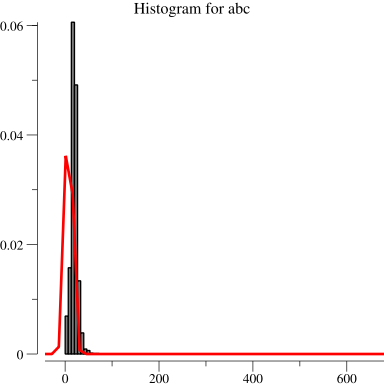
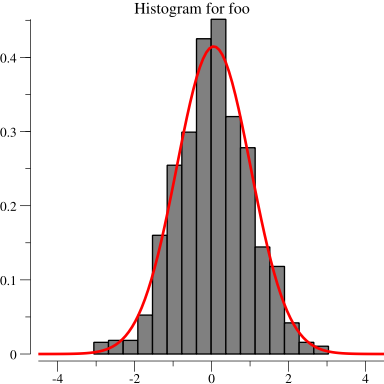
summary: some changes for displaying the normal distribution more accurate

diff --git a/summary/summary.go b/summary/summary.go
@@ -83,30 +83,21 @@ func main() {
 						if err != nil {
 							panic(err)
 						}
-						p.X.Min = s.min - 4*stddev
-						p.X.Max = s.max + 4*stddev
+						p.X.Min = s.min - 1.5*stddev
+						p.X.Max = s.max + 1.5*stddev
 						p.Title.Text = fmt.Sprintf("Histogram for %s", s.name)
-						// p.Y.Scale = plot.LogScale{}
 
-						// Create a histogram of our values drawn
-						// from the standard normal.
-						plotterValues := make([]float64, 0, len(s.obsv))
-						for _, o := range s.obsv {
-							plotterValues = append(plotterValues, o+math.Abs(s.min)+0.1)
-						}
-						h, err := plotter.NewHist(plotter.Values(plotterValues), 100)
+						h, err := plotter.NewHist(plotter.Values(s.obsv), 16)
 						if err != nil {
 							panic(err)
 						}
-						// Normalize the area under the histogram to
-						// sum to one.
 						h.Normalize(1)
 						p.Add(h)
 
 						norm := plotter.NewFunction(func(x float64) float64 {
 							return 1.0 / (stddev * math.Sqrt(2*math.Pi)) * math.Exp(-((x-mean)*(x-mean))/(2*stddev*stddev))
 						})
-						norm.Samples = 50
+						norm.Samples = int(p.X.Max-p.X.Min) + 100
 						norm.Color = color.RGBA{R: 255, A: 255}
 						norm.Width = vg.Points(2)
 						p.Add(norm)
